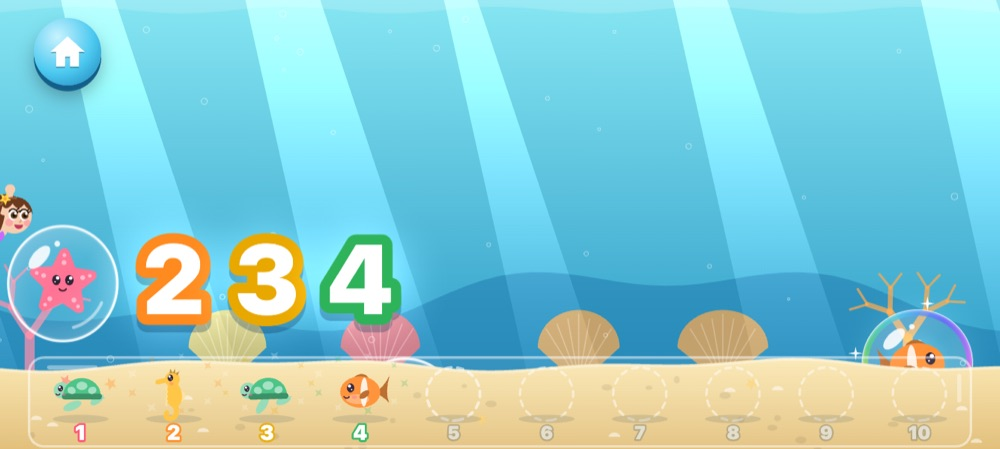
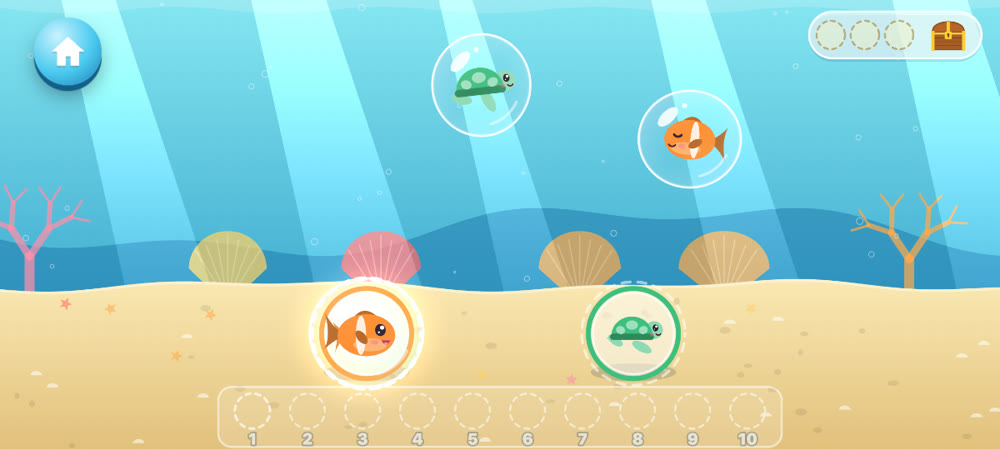
Snapshot of private 6a10efc

diff --git a/site/index.html b/site/index.html
@@ -13,25 +13,27 @@
   <div class="wrap">
     <div class="brand"><img src="icon.png" alt=""> Isabella Ocean</div>
     <h1>Ocean games for little ones.<br>No ads. No accounts.</h1>
-    <p class="lead">Three calm, colourful games for kids aged 3 to 8 on the Solana Seeker. They play offline, nothing about your child is collected, and nothing pops up asking them to buy things.</p>
+    <p class="lead">Five calm, colourful games for kids aged 3 to 8 on the Solana Seeker. They play offline, nothing about your child is collected, and nothing pops up asking them to buy things.</p>
     <ul class="pills"><li>Ages 3–8</li><li>Plays offline</li><li>No ads, no tracking</li><li>No reading needed</li></ul>
-    <img class="shot" src="img/title.jpg" alt="The Isabella Ocean title screen: Isabella the mermaid with three game buttons">
+    <img class="shot" src="img/title.jpg" alt="The Isabella Ocean title screen: Isabella the mermaid with five game buttons">
   </div>
 </header>
 
 <main class="wrap">
   <section>
-    <h2>Three games</h2>
+    <h2>Five games</h2>
     <div class="grid">
-      <div class="card"><img src="img/pop.jpg" alt="Bubble Party: creatures counted into an aquarium"><h3>Bubble Party <span class="age">3–5</span></h3><p>Pop bubbles to free sea creatures into an aquarium, counting along to ten. No timers, no losing.</p></div>
+      <div class="card"><img src="img/pop.jpg" alt="Bubble Party: a fish bubble dragged home to the fish on the sand"><h3>Bubble Party <span class="age">3–5</span></h3><p>Drag each sea creature's bubble home to its picture on the sand. Ten saved make a coin, and every level ends in a treasure chest. Leave the grumpy ones be!</p></div>
       <div class="card"><img src="img/title.jpg" alt="Isabella the Mermaid"><h3>Isabella the Mermaid <span class="age">5–8</span></h3><p>Swim through 20 levels, find the key and open the treasure chest. Ten levels are free.</p></div>
       <div class="card"><img src="img/match.jpg" alt="Shell Match: a memory game with clam shells"><h3>Shell Match <span class="age">5–8</span></h3><p>A memory game with clam shells, from 2 to 10 pairs, with stars for fewer mistakes.</p></div>
+      <div class="card"><img src="img/maze.jpg" alt="Coral Maze: a big coral maze with keys, gates and currents"><h3>Coral Maze <span class="age">5–8+</span></h3><p>Help Isabella swim out of coral mazes. Twenty Easy levels, then twenty big Hard ones with keys, gates, currents and dark water.</p></div>
+      <div class="card"><img src="img/words.jpg" alt="Sea Words: a word search where every word has its picture"><h3>Sea Words <span class="age">5–8</span></h3><p>A picture word search: find TURTLE, PEARL or CHEST by drawing a line. Easy, medium and hard, and a new puzzle every time.</p></div>
     </div>
   </section>
 
   <section>
     <h2>Unlock everything, your way</h2>
-    <p>Bubble Party, Shell Match and Isabella's first ten levels are free. A grown-up can unlock the rest behind a parent gate (press and hold, then a quick sum), so children never see a wallet or a payment.</p>
+    <p>Bubble Party, Shell Match, Coral Maze, Sea Words and Isabella's first ten levels are free. A grown-up can unlock the rest behind a parent gate (press and hold, then a quick multiplication), so children never see a wallet or a payment.</p>
     <div class="two">
       <div class="card opt">
         <h3>Stake 1 SOL, get it back any time</h3>
@@ -70,6 +72,7 @@
 <footer class="wrap">
   <nav><a href="privacy.html">Privacy</a><a href="terms.html">Terms</a></nav>
   <p>Isabella Ocean. Built for the Solana Seeker. Questions: contact us through our listing on the Solana dApp Store.</p>
+  <p><a href="isabella-ocean.apk">Devnet test build (APK)</a> for the Seeker. It runs on Solana's devnet, a test network where tokens have no value.</p>
 </footer>
 </body>
 </html>

diff --git a/README.md b/README.md
@@ -1,51 +1,203 @@
-# Isabella the Mermaid
+# Isabella Ocean
 
-An offline Android game for a 6-year-old: Isabella swims through the sea, dodges creatures, finds the
-key, and opens the treasure chest. 20 levels share one engine; each level only changes the dials
-(speed, length, gaps, which obstacles appear, how many heart bubbles). World 2 (levels 11-20) adds
-sliding gates, spinning urchin wheels, winch anchors, fish schools, eel rows, jelly walls and long
-tunnels; beating level 20 earns Isabella a crown.
+**Isabella Ocean** is five ad-free ocean games for kids on the Solana Seeker, for ages about 3 to 8.
+It began as one game built for a 6-year-old. Four of the games, plus World 1 of the main game,
+*Isabella the Mermaid*, are free and play offline. A parent unlocks World 2 (levels 11–20) in one
+of two ways:
 
-- `web/` is the game (plain HTML5 canvas, no libraries): `core.js` rules, `render.js` drawing,
-  `audio.js` synthesised sound, `app.js` screens/input/saving. It is packed as the APK's assets.
-- `android/` is a minimal WebView app (`app.isabella.mermaid`, no dependencies).
-- `test/verify.js` proves every level can be finished, measures how tight each one is, and checks
-  that levels 1-10 are byte-for-byte the levels she first learned.
-- `test/tune.js` picks each world-2 level's layout (`seed`) so difficulty climbs level by level.
-- `test/render.html?n=12&kind=wheel` draws one moment of a level, for screenshots without a phone.
+- **Stake 1 SOL** into our own SPL stake pool. The parent keeps the OCEAN pool tokens and can take
+  the SOL back any time. The pool's fee is 100% of the staking rewards; that is the price.
+- **Pay US$15 once** in any Jupiter-verified token, SKR included, swapped so that exactly 15 USDC
+  arrives.
 
-## Build and install on the phone
+There are no accounts, no ads, no tracking and no backend: the unlock is read from the chain. It
+runs on devnet today (see [Status](#status)).
+
+- **Demo video** (2:48), filmed on a real Seeker with the Seed Vault Wallet on devnet:
+  <https://youtu.be/__YTxNECcDc>
+- **Website:** <https://isabellaocean-app.pages.dev>
+- **APK**, the devnet test build: <https://isabellaocean-app.pages.dev/isabella-ocean.apk>
+- **Docs:** [`docs/`](docs/README.md), one page per topic: [games](docs/GAMES.md),
+  [payments](docs/PAYMENTS.md), [stake pool](docs/POOL.md), [Android](docs/ANDROID.md),
+  [website](docs/SITE.md), [demo](docs/DEMO.md), [testing](docs/TESTING.md)
+
+## What's native and on-chain
+
+The games are drawn on an HTML5 canvas in plain JavaScript, with no libraries; all the art and
+sound are made in code. The APK carries them as assets and runs them full screen in an Android
+WebView, so there is no web server and they play offline. Everything around them is native Android
+or on Solana:
+
+- **Mobile Wallet Adapter 2, in Java**
+  ([`WalletBridge.java`](android/app/src/store/java/app/isabella/mermaid/WalletBridge.java)).
+  MWA clientlib 2.2.0, exposed to the page as `window.IsabellaWallet`: authorize (silently with
+  the saved token after the first time) and `signAndSendTransactions`. Tested on a real Seeker with
+  the Seed Vault Wallet on devnet: connect, stake, instant exit and pay once, all in the demo video.
+- **`WalletKeepAlive`**
+  ([`WalletKeepAlive.java`](android/app/src/store/java/app/isabella/mermaid/WalletKeepAlive.java)).
+  Android freezes a backgrounded app about 70 s after the wallet opens, and the wallet's answer is
+  then lost. This foreground `shortService` keeps the app awake only while a wallet request is
+  open, for up to about 3 minutes. A 94 s approval was verified on the emulator.
+- **Two Android flavors** ([`android/app/build.gradle`](android/app/build.gradle)). `store` is
+  Isabella Ocean (`app.isabella.mermaid.seeker`), with the paywall and the wallet; its only network
+  traffic is Solana RPC and Jupiter. `family` (`app.isabella.mermaid`) has everything unlocked, no
+  wallet code and no internet permission. Plain Java: no framework, no androidx.
+- **Our own SPL stake pool** ([`pool/`](pool/README.md)), live on devnet since 2 Oct 2026
+  (addresses below). Its instructions are hand-encoded, because the JS SDK lacks several, and were
+  checked four ways: hand-written byte vectors, byte for byte against the SDK, simulation, and real
+  devnet transactions. The app adds the pool's permissionless epoch update to a parent's
+  transaction when it is due.
+- **Jupiter ExactOut** ([`web/payments.js`](web/payments.js)). Pay once lists the Jupiter-verified
+  tokens in the wallet (SKR is one) and builds a Metis Swap v1 ExactOut swap into our USDC account,
+  so exactly 15 USDC arrives. With no ExactOut route it falls back to ExactIn plus an exact USDC
+  transfer, in one transaction. This is the mainnet path, tested read-only against mainnet.
+- **Entitlement from the chain, no backend** ([`web/entitlement.js`](web/entitlement.js)). Staked:
+  World 2 is open while the wallet holds at least 0.99 OCEAN, re-checked every 5 minutes and on
+  resume, and it locks after 24 h without a successful check. Paid: each payment carries a
+  reference key, `sha256("isabella-purchase-v1" + wallet)`, that `getSignaturesForAddress` finds
+  again, so Restore purchase works after a reinstall.
+- **Deterministic level solvers** ([`test/`](test/)). In Isabella every obstacle is a pure function
+  of time, so `test/verify.js` proves all 20 levels can be finished. `test/games/maze/verify.js`
+  searches every state of all 40 Coral Maze levels and proves each one escapable, with no dead
+  ends. Fingerprints freeze Isabella's World 1 and every maze level.
+
+Every transaction is simulated before the wallet is asked to sign, so most failures show before
+any approval.
+
+**Devnet addresses** (from [`pool/devnet.json`](pool/devnet.json) and
+[`web/config.js`](web/config.js)):
+
+| Account | Address |
+|---|---|
+| SPL Stake Pool program (v2.0.x on devnet) | `DPoo15wWDqpPJJtS2MUZ49aRxqz5ZaaJCJP4z8bLuib` |
+| Pool | [`D5k3bxRYCWizSToy7C3WzQoPBXYNAUZ78Lo2vvFR9q7a`](https://explorer.solana.com/address/D5k3bxRYCWizSToy7C3WzQoPBXYNAUZ78Lo2vvFR9q7a?cluster=devnet) |
+| OCEAN mint ("Isabella Ocean Pass", 9 decimals) | `Fm2VtHvAdzAFz7XbD9gNWbrnnqhEqkCEoZVyVyxFS7TT` |
+| Reserve | `6VJJwviBbfa9WNNNSmK8aR1UpGNuhwZSgwtPUuqTm4Ud` |
+| Validator list | `ANX2oxjGduXwgDE5SmVM2o9NWDfTbHDMeE8mBuXwNEaM` |
+| Merchant wallet (devnet pay once) | `HoackNncWJbNE8nKRpz241SLbS64cbP4Lr4zHZ5H7J2x` |
+
+Pool settings: the epoch fee is 100% of rewards, an instant exit costs 0.3%, and the free exit and
+deposits cost nothing. Only the manager may deposit stake accounts, which blocks reward skimming;
+SOL deposits stay open to everyone.
+
+## The five games
+
+| Game | Ages | What the child does | In Isabella Ocean |
+|---|---|---|---|
+| Bubble Party | 3–5 | Drags bubbles carrying sea creatures onto the matching creature; every 10 saved make a gold coin | 10 levels, free |
+| Isabella the Mermaid | 5–8 | Steers Isabella through the sea with a finger, dodging creatures, to find the key and open the treasure chest | 20 levels: World 1 free, World 2 unlocks |
+| Shell Match | 5–8 | Opens shells to find the matching pairs | 6 levels, free |
+| Coral Maze | 5–8+ | Swipes Isabella through coral mazes with keys, gates, currents and patrols | 20 Easy + 20 Hard levels, free |
+| Sea Words | 5–8 | Word searches where every word comes with its picture | Endless, in 3 modes, free |
+
+Rules for every game: kids never need to read, touch targets are about 2 cm on the Seeker, there
+are no timers, nagging or ads, and anything involving money or a wallet sits behind the parent
+gate.
+
+## Try it on a Seeker (devnet)
+
+1. **Install the APK** (the devnet test build, linked above), allowing installs from your browser
+   when Android asks. The free games and World 1 work offline.
+2. **Switch the Seed Vault Wallet to devnet:** Settings → tap the version number about 7 times →
+   Developer mode → Devnet.
+3. **Get devnet SOL** for your wallet at [faucet.solana.com](https://faucet.solana.com) (it may ask
+   you to sign in with GitHub). About 1.2 SOL covers staking plus a purchase.
+4. **Unlock World 2:** tap Play, page across to World 2 and tap a level with a gold padlock →
+   Grown-ups → hold for 3 seconds, then answer a multiplication → **Stake 1 SOL** or **Pay US$15
+   once** → approve in the wallet.
+
+What happens next:
+
+- **Stake** deposits 1.01 SOL and mints about 1.01 OCEAN. World 2 opens once it confirms.
+- **To get the SOL back,** use the Grown-ups button on the title screen: "Get my SOL back now"
+  costs 0.3%, and "free" takes about 2 days and then a Claim. Either way World 2 locks again.
+- **Pay once on devnet** sends 0.1 devnet SOL (or 15 devnet USDC) to the merchant wallet instead
+  of swapping through Jupiter. A purchase never expires, and Restore purchase finds it after a
+  reinstall.
+
+## Build it yourself
+
+You need JDK 17 or newer (Android Studio's bundled JBR works) and the Android SDK with platform 36,
+found through `ANDROID_HOME` or `sdk.dir` in `android/local.properties`. The Gradle wrapper is in
+the repo.
+
+```bash
+cd android
+# macOS with Android Studio; elsewhere, point JAVA_HOME at any JDK 17+
+export JAVA_HOME="/Applications/Android Studio.app/Contents/jbr/Contents/Home"
+./gradlew :app:assembleStoreDebug :app:assembleFamilyDebug
+```
+
+| Flavor | Package | APK |
+|---|---|---|
+| `store` (Isabella Ocean) | `app.isabella.mermaid.seeker` | `android/app/build/outputs/apk/store/debug/app-store-debug.apk` |
+| `family` (offline, all unlocked) | `app.isabella.mermaid` | `android/app/build/outputs/apk/family/debug/app-family-debug.apk` |
+
+Install over USB with `adb install -r <apk>`. The `-r` updates in place and keeps saved progress,
+but only over a build signed with the same key: if you installed the downloaded APK, uninstall it
+first.
+
+There is no JavaScript build step. `web/` goes into the APK as it is, and the Solana libraries are
+pre-bundled in `web/vendor/solana.js` (rebuild it with `cd tools && npm ci && npm run bundle`).
+
+**Signing.** Debug builds are signed with the local debug key of the machine that builds them.
+Wallets verify the app's identity (Isabella Ocean, `https://isabellaocean-app.pages.dev`) through
+[`site/.well-known/assetlinks.json`](site/.well-known/assetlinks.json), which names the package and
+our signing certificate. A debug APK you build yourself has a different certificate, so the wallet
+shows it as unverified, but everything works.
+
+## Run the tests
+
+Run these from the repo root with Node 22 or newer. The browser tests drive headless Google Chrome
+with real touch or mouse input. They look for Chrome at its macOS path, so elsewhere set `CHROME`
+and `CHROME_BIN` to your Chrome binary. Every command, its port and its last result are in
+[`docs/TESTING.md`](docs/TESTING.md).
+
+| Command | What it proves |
+|---|---|
+| `node test/verify.js` | All 20 Isabella levels can be finished: a sweep over time and height at 60% swim speed, then an autopilot through the real game loop. Levels 1–10 are byte-identical to the originals. About a minute. |
+| `node test/games/maze/verify.js` | All 40 Coral Maze levels, with every state searched (keys, gates, shells, patrol phase): each solvable, free of dead ends, frozen, and harder than the last. About 50 s; `--easy` takes 1 s. |
+| `node test/games/words/verify.js` | 13,000 Sea Words puzzles: placement, the three modes, and no rude words in any direction. |
+| `node test/games/pop/verify.js` | Bubble Party's rules, level table and old-save conversion. |
+| `node --test test/games/match/logic.test.js` | Shell Match's rules. |
+| `node test/hub/hub.test.js` | The title screen: five big buttons that fit at 800×360, each opening its game and coming back. |
+| `node test/games/maze/browser.js` (and `pop`, `words`) | Each game played in headless Chrome with real touch input. |
+| `cd tools && npm ci && npm test` | Payments: offline unit tests including the entitlement rules, every flow simulated against devnet, and Jupiter ExactOut on mainnet, all read-only. Tests that send devnet transactions skip until you fund the key they print. |
+| `cd pool && npm ci && npm test` | The hand-encoded stake-pool instructions, byte for byte, and the crank's rebalancing rules. Offline. |
+| `cd pool && node status.mjs` | A read-only snapshot of the live devnet pool: fees, reserve and validators. No keys needed. |
+| `node test/e2e/emulator-flow.js` | The whole parent flow on an Android emulator with real devnet transactions: stake, World 2 opens, instant exit, it locks, pay once, it opens. Needs a funded test wallet, and refuses any device that isn't an emulator. |
+
+## Repo layout
 
 ```
-node test/verify.js
-cd android && JAVA_HOME=$(brew --prefix openjdk@17)/libexec/openjdk.jdk/Contents/Home ./gradlew assembleDebug
-~/Library/Android/sdk/platform-tools/adb install -r app/build/outputs/apk/debug/app-debug.apk
+web/                   the games and parent screens (HTML5 canvas, plain JS), packed into the APK
+  games/               Bubble Party, Shell Match, Coral Maze, Sea Words (Isabella is web/ itself)
+  paywall.js           the parent gate, unlock and grown-ups screens
+  entitlement.js       is World 2 open? Read from the chain
+  payments.js          stake, exits, claim, and pay once through Jupiter
+  wallet.js            the JS side of the wallet bridge
+  config.js            cluster, pool, mint, merchant and price
+android/               the native app in Java: a WebView shell with two flavors
+  app/src/main/        MainActivity: saves, back button, home-screen pin, full screen
+  app/src/store/       WalletBridge and WalletKeepAlive (store flavor only)
+pool/                  our SPL stake pool: create, crank, status, smoke test, mainnet runbook
+site/                  the website, with .well-known/assetlinks.json and the privacy and terms pages
+test/                  level solvers, browser tests with real touch, payments, emulator end to end
+tools/                 builds web/vendor/solana.js and runs the payments tests
+docs/                  how everything works, one page per topic
+.github/workflows/     pool-crank.yml: runs the pool crank every 6 hours once a key is set
 ```
 
-`install -r` keeps her progress. Add `--ez pin true` to
-`adb shell am start -n app.isabella.mermaid/.MainActivity` to pop the "Add to Home screen" prompt.
+## Status
 
-Grown-ups: hold the title for 4 seconds to unlock every level.
-
-## Making another game from this
-
-The game itself is four plain JavaScript files with no libraries and no build step:
-
-- `web/core.js`: the rules. `LEVELS` is the level table, each obstacle's motion is a pure
-  function of time, and `buildLevel` turns a level's dials into a layout. A new game mostly means
-  new entries in `LEVELS` and new pattern builders.
-- `web/render.js`: all drawing (the character, `THEMES` with one look per level, obstacles, the
-  celebration).
-- `web/audio.js`: synthesised sound effects and music.
-- `web/app.js` + `web/index.html`: screens, touch input, saving, the Android back button.
-
-`android/` is a dependency-free WebView shell. For a new game, copy it and change
-`applicationId`/`namespace` in `android/app/build.gradle`, the package in `MainActivity.java`
-(and its folder), the label in `AndroidManifest.xml`, and the icon in
-`res/drawable/ic_launcher_fg.xml`.
-
-Keep the habit that made this one solid: `node test/verify.js` proves every level can be finished
-before each build, and `test/tune.js` picks layouts that hit a difficulty target.
+- **Devnet today.** The app, the stake pool and the merchant wallet are all on devnet, where
+  tokens have no value.
+- **Mainnet next,** on the Solana dApp Store after the hackathon. The mainnet stake pool will be
+  created with the owner's own keys, following the runbook in [`pool/README.md`](pool/README.md);
+  mainnet runs SPL Stake Pool v2.1.0 (`SPoo1Ku8WFXoNDMHPsrGSTSG1Y47rzgn41SLUNakuHy`). Then
+  `web/config.js` switches to mainnet (the changes are listed in
+  [`docs/PAYMENTS.md`](docs/PAYMENTS.md)), and a release key signs the app, with its certificate
+  added to `assetlinks.json`.
 
 ---
 Source published for the Solana Mobile CLOCK IN hackathon. All rights reserved.

diff --git a/docs/SITE.md b/docs/SITE.md
@@ -1,25 +1,39 @@
 # The website
 
-**https://isabellaocean-app.pages.dev**, the source in `site/`. It does three jobs:
+**https://isabellaocean-app.pages.dev**, the source in `site/`. It does four jobs:
 
 1. **Wallet identity:** `/.well-known/assetlinks.json` tells wallets that the app `app.isabella.mermaid.seeker`, signed with our certificate, really belongs to this site. Wallets then show "Isabella Ocean" as verified.
 2. **Legal pages:** `privacy.html` and `terms.html`. The app links to them from the grown-ups screen.
 3. **A landing page:** `index.html`, with `icon.png` and `img/`.
+4. **The devnet test APK:** `/isabella-ocean.apk`, a direct download for hackathon judges, linked from the landing page's footer.
+   - It is the store-flavor debug build (ANDROID.md), which runs on Solana devnet.
+   - It is **not in git**. The deploy script builds it and adds it.
 
 **Brand rule:** the site and app stand alone as Isabella Ocean. They must not name or link any other
 business of the owner.
 
 ## Deploy (Cloudflare Pages, classic project `isabellaocean-app`)
 ```bash
-npx wrangler pages deploy site --project-name isabellaocean-app --branch main --commit-dirty=true
+scripts/deploy-site.sh              # builds the store debug APK, then deploys site/ plus the APK
+scripts/deploy-site.sh <file.apk>   # deploys that APK instead
 ```
-- **Always pass `--project-name`.** With wrangler 4.146, a `pages` command for a project that doesn't exist yet silently creates a **Worker** instead, on the account's `workers.dev` subdomain. That subdomain names a different brand.
+- **Always deploy through the script.** It deploys a temp copy of `site/` with the APK added. A plain `wrangler pages deploy site` would **remove the APK** from the live site.
+- **What the script does:**
+  - builds the APK (or takes yours) and checks it: every game in `web/games` is packed, it is the store flavor, and its signing certificate is listed in `assetlinks.json`;
+  - refuses if another brand's name or a private detail appears in the pages or inside the APK;
+  - checks that the Pages project exists, then runs `npx wrangler pages deploy <tempdir> --project-name isabellaocean-app --branch main --commit-dirty=true`;
+  - checks the result: wrangler must report a `*.isabellaocean-app.pages.dev` deployment and no Worker, and the live APK, `/`, `/privacy`, `/terms` and `assetlinks.json` must match what it staged, byte for byte.
+- **`site/_headers`** serves the APK as `application/vnd.android.package-archive` with `Content-Disposition: attachment`. Pages reads this file when you deploy and never serves it.
+- **Always pass `--project-name`.** The script refuses to run without it.
+  - Since wrangler 4.146, when wrangler detects an AI agent, a `pages` command for a project that doesn't exist yet silently creates a **Worker** instead, on the account's `workers.dev` subdomain. That subdomain names a different brand.
+  - The wrangler source also skips that hand-over when `--branch` or `--commit-dirty` is passed, or when the project exists.
 - The classic project was created once with `wrangler pages project create isabellaocean-app --production-branch main --force`.
-- **After deploying, check the result:**
+- **A 200 proves nothing on its own.** For a missing file, Pages answers 200 with `index.html`. To check by hand, look at the content:
   ```bash
+  curl -sI https://isabellaocean-app.pages.dev/isabella-ocean.apk   # content-type: application/vnd.android.package-archive
   curl -s https://isabellaocean-app.pages.dev/.well-known/assetlinks.json
   ```
-  This should return the JSON with our package and certificate.
+  The second one should return the JSON with our package and certificate.
 
 ## `assetlinks.json`
 ```json
@@ -28,7 +42,8 @@ npx wrangler pages deploy site --project-name isabellaocean-app --branch main --
   "sha256_cert_fingerprints":["BE:22:1E:89:34:43:DA:8A:BB:06:15:B3:CE:43:FB:58:99:51:C7:CD:B5:E5:39:37:E5:C9:CF:DC:12:FF:42:23"]}}]
 ```
 That fingerprint is today's **debug** certificate. When the release keystore exists, **add** its
-SHA-256 to the list (keep the debug one for test builds) and redeploy (TODO.md).
+SHA-256 to the list (keep the debug one for test builds) and redeploy with `scripts/deploy-site.sh`
+(TODO.md). The script refuses an APK whose certificate isn't listed.
 
 ## The legal pages
 - **Privacy:** the games collect nothing. No accounts, sign-in, ads, analytics or tracking. The only network traffic is to Solana and Jupiter, for an unlock the parent starts.

diff --git a/docs/POOL.md b/docs/POOL.md
@@ -42,8 +42,8 @@ All public addresses are in `pool/devnet.json`; the keys are in gitignored `pool
 - No validator is ever left between its minimum stake and minimum + 1.01 SOL, so a parent's free exit always has stake to come from.
 - A reserve buffer is kept liquid for instant exits (1.05 SOL on devnet).
 - **GitHub Actions** (`.github/workflows/pool-crank.yml`) runs the crank every 6 hours.
-  - No repo secrets are set, so today it runs only the public update.
-  - To stake deposits it needs the `POOL_STAKER_KEYPAIR` secret.
+  - **No repo secrets are set, so today the job does nothing.** It exits with "nothing to run" until a key is set. The app's own transactions still prepend the update, so devnet keeps working.
+  - It needs `POOL_STAKER_KEYPAIR` (or `POOL_CRANK_PAYER_KEYPAIR` for update only) before it does anything.
   - Mainnet also needs `POOL_CLUSTER=mainnet`, `POOL_ALLOW_MAINNET=yes`, a private `POOL_RPC_URL`, and `pool/mainnet.json`.
 
 ## Commands (from `pool/`)

diff --git a/docs/DEMO.md b/docs/DEMO.md
@@ -79,4 +79,6 @@ then sends it 1.2 devnet SOL once.
 2. To try an unlock on devnet:
    - put the Seed Vault Wallet on Devnet: Settings → tap the version number 7 times → Developer mode → Devnet;
    - get devnet SOL at faucet.solana.com: about 1.2 SOL covers staking plus a test purchase.
-3. In the app: tap a World 2 level → Grown-ups → the parent gate → Stake 1 SOL, or Pay once.
+3. On a fresh install, World 2's levels also need World 1 finished. To skip that, **hold the "Isabella" logo on the title screen for 4 seconds** (a key sound plays). That opens every level's progress lock; payment is still required.
+4. In the app: tap a World 2 level → Grown-ups → the parent gate (hold, then a multiplication) → Stake 1 SOL, or Pay once.
+5. The full answers for the form, with these instructions, are in `docs/SUBMISSION.md` (private).
